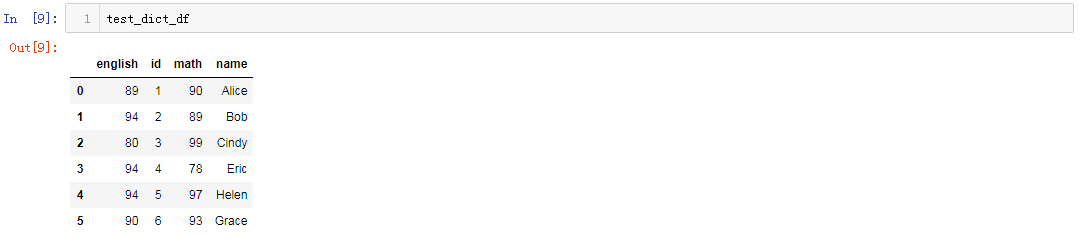
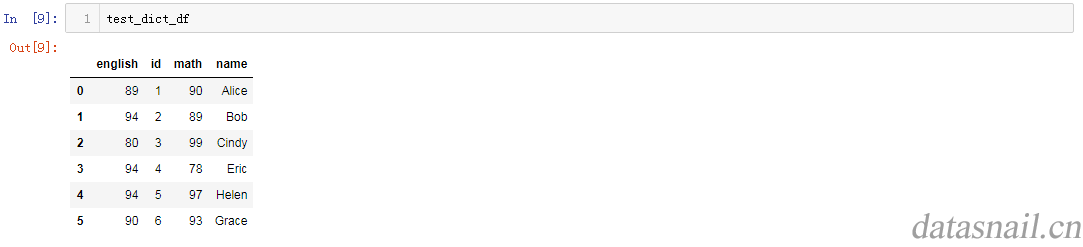
add watermark

Changed region(s): [[0.8227, 0.8502, 1.0, 0.9636]]

diff --git a/postimg/python/dataframe/sy.py b/postimg/python/dataframe/sy.py
@@ -1,0 +1,34 @@
+#!/usr/local/bin/python3
+#coding=gbk
+#the main code is from blog:https://www.cnblogs.com/txw1958/archive/2012/07/20/python3-watermark.html
+import os, io, sys, re, time, json, random
+from PIL import Image, ImageEnhance, ImageFilter
+
+def watermark(img_source, img_water, img_new):
+    try:
+        im = Image.open(img_source)
+        wm = Image.open(img_water)
+        layer = Image.new('RGBA', im.size, (0,0,0,0))
+        layer.paste(wm, (im.size[0] - wm.size[0], im.size[1] - wm.size[1]))
+        newIm = Image.composite(layer, im, layer)
+        newIm.save(img_new)
+
+    except Exception as e:
+        print(">>>>>>>>>>> WaterMark EXCEPTION:  " + str(e))
+        return False
+    else:
+        return True
+
+if __name__ == '__main__':
+    if len(sys.argv) >=2:
+        if sys.argv[1] == '-p':#
+            for i in range(2,len(sys.argv)):
+                watermark(str(sys.argv[i]),"H:\\blog\\postimg\\sy.png",str(sys.argv[i]))
+        elif len(sys.argv) == 2: # one arg, the src_img name equals name of dest_img  
+            watermark(str(sys.argv[1]), "H:\\blog\\postimg\\sy.png", str(sys.argv[1]))
+        elif len(sys.argv) == 3:#two args that water_img could be omitted
+            watermark(str(sys.argv[1]), "H:\\blog\\postimg\\sy.png", str(sys.argv[2]))
+        elif len(sys.argv) == 4:
+            watermark(str(sys.argv[1]), str(sys.argv[3]), str(sys.argv[2]))
+    else:
+        print('use  "python '+sys.argv[0]+' src_img [dest_img] [water_img]" to start!')
